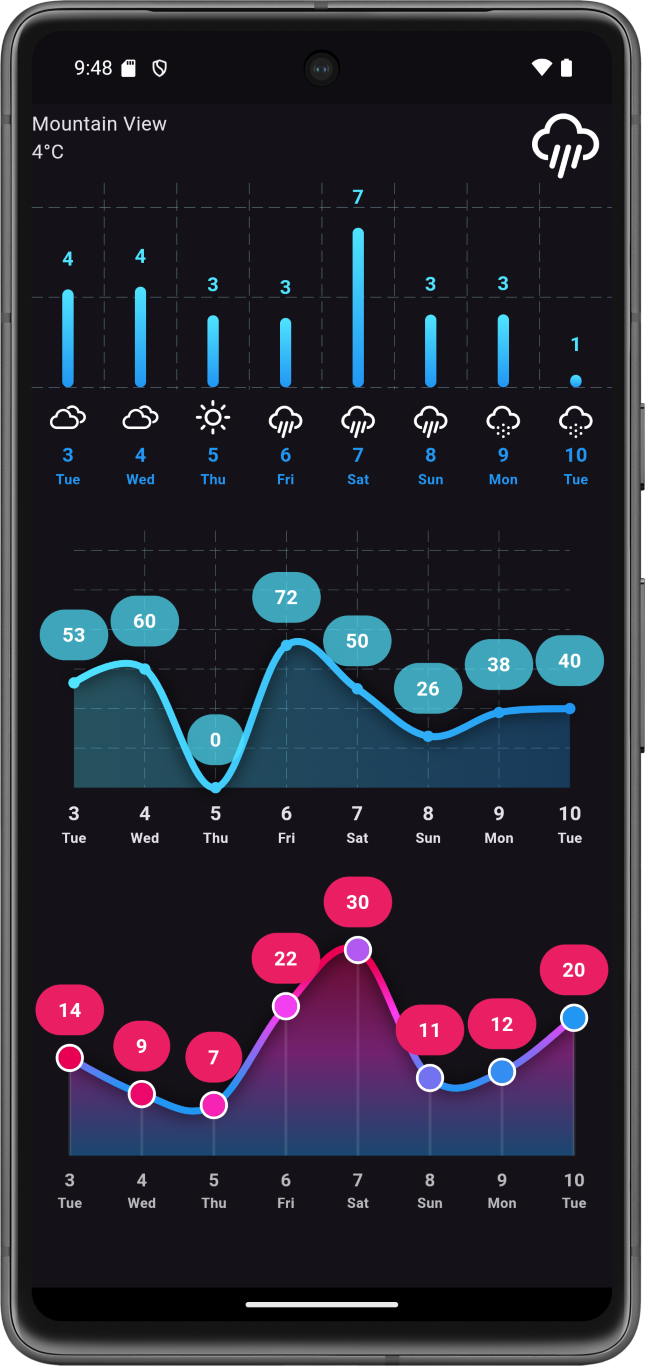
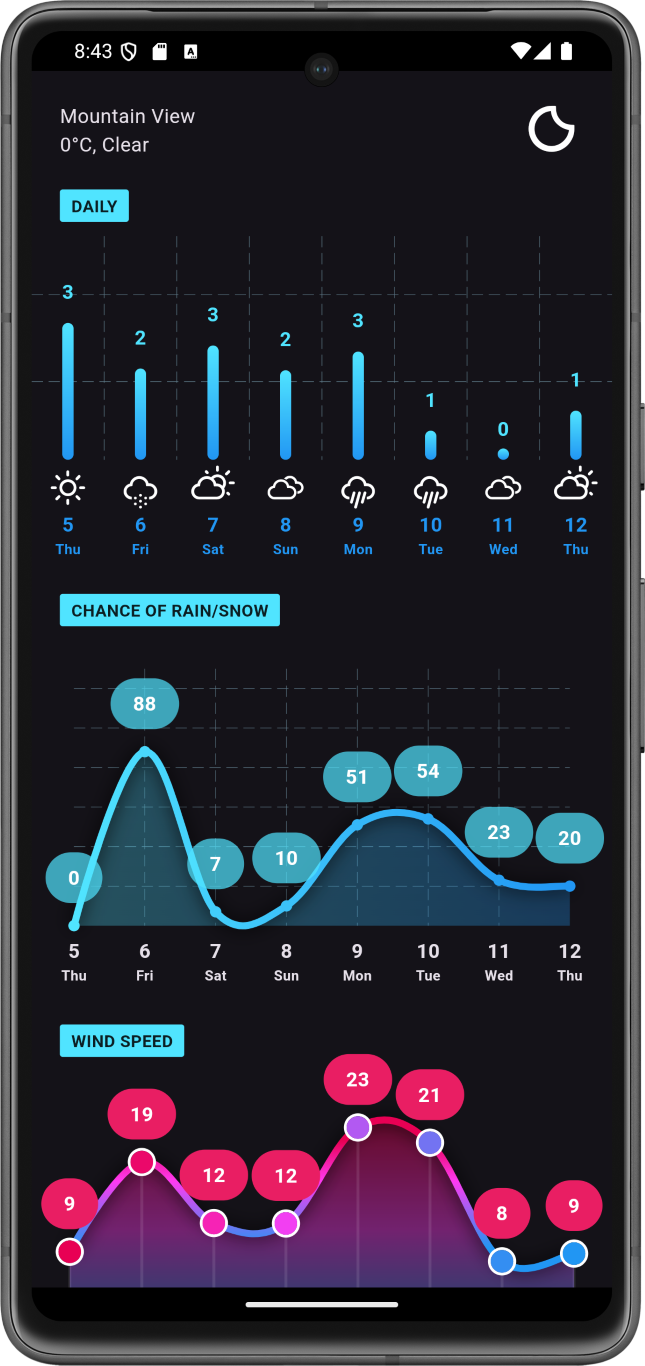
labels of charts!

diff --git a/lib/pages/weather_page.dart b/lib/pages/weather_page.dart
@@ -3,10 +3,11 @@ import 'package:flutter_animate/flutter_animate.dart';
 import 'package:flutter_dotenv/flutter_dotenv.dart';
 import 'package:weather_icons/weather_icons.dart';
 import 'package:weatherapp/model/weather.dart';
-import 'package:weatherapp/pages/chart_hourly.dart';
+import 'package:weatherapp/pages/hourly.dart';
 
 import '../services/weather_service.dart';
-import 'chart.dart';
+import 'app_resources.dart';
+import 'daily.dart';
 import 'chart2.dart';
 import 'chart3.dart';
 
@@ -84,14 +85,129 @@ class _WeatherPageState extends State<WeatherPage> {
                           ),
                         ],
                       ),
-                      BarChartSample3(weather: _weather),
-                      Text("\n"),
-                      HourlyChart(weather: _weather),
-                      // Text("\n\nWind speed"),
-                      Text("\n"),
-                      LineChartSample5(weather: _weather),
+                      Align(
+                        alignment: Alignment
+                            .centerLeft, // Align the container to the left
+                        child: Padding(
+                          padding: EdgeInsets.only(
+                            left: 20.0,
+                            bottom: 10,
+                          ), // Add 20 pixels of padding from the left
+                          child: Container(
+                            decoration: BoxDecoration(
+                              color: AppColors
+                                  .contentColorCyan, // Background color
+                              borderRadius:
+                                  BorderRadius.circular(2.0), // Rounded corners
+                            ),
+                            padding: EdgeInsets.symmetric(
+                                horizontal: 8.0,
+                                vertical: 3.0), // Padding inside the container
+                            child: Text(
+                              "DAILY",
+                              style: TextStyle(
+                                color: Colors.black87, // Text color
+                                fontWeight: FontWeight.bold, // Bold text
+                                fontSize: 12.0, // Adjust font size
+                              ),
+                            ),
+                          ),
+                        ),
+                      ),
+                      DailyChart(weather: _weather),
+                      Align(
+                        alignment: Alignment
+                            .centerLeft, // Align the container to the left
+                        child: Padding(
+                          padding: EdgeInsets.only(
+                            top: 25.0,
+                            left: 20.0,
+                            bottom: 0,
+                          ), // Add 20 pixels of padding from the left
+                          child: Container(
+                            decoration: BoxDecoration(
+                              color: AppColors
+                                  .contentColorCyan, // Background color
+                              borderRadius:
+                                  BorderRadius.circular(2.0), // Rounded corners
+                            ),
+                            padding: EdgeInsets.symmetric(
+                                horizontal: 8.0,
+                                vertical: 3.0), // Padding inside the container
+                            child: Text(
+                              "CHANCE OF RAIN/SNOW",
+                              style: TextStyle(
+                                color: Colors.black87, // Text color
+                                fontWeight: FontWeight.bold, // Bold text
+                                fontSize: 12.0, // Adjust font size
+                              ),
+                            ),
+                          ),
+                        ),
+                      ),
                       LineChartSample2(weather: _weather),
-                      // Text("\n\nProbability of precipitation"),
+                      Align(
+                        alignment: Alignment
+                            .centerLeft, // Align the container to the left
+                        child: Padding(
+                          padding: EdgeInsets.only(
+                            top: 25.0,
+                            left: 20.0,
+                            bottom: 40,
+                          ), // Add 20 pixels of padding from the left
+                          child: Container(
+                            decoration: BoxDecoration(
+                              color: AppColors
+                                  .contentColorCyan, // Background color
+                              borderRadius:
+                                  BorderRadius.circular(2.0), // Rounded corners
+                            ),
+                            padding: EdgeInsets.symmetric(
+                                horizontal: 8.0,
+                                vertical: 3.0), // Padding inside the container
+                            child: Text(
+                              "WIND SPEED",
+                              style: TextStyle(
+                                color: Colors.black87, // Text color
+                                fontWeight: FontWeight.bold, // Bold text
+                                fontSize: 12.0, // Adjust font size
+                              ),
+                            ),
+                          ),
+                        ),
+                      ),
+                      LineChartSample5(weather: _weather),
+                      Align(
+                        alignment: Alignment
+                            .centerLeft, // Align the container to the left
+                        child: Padding(
+                          padding: EdgeInsets.only(
+                            top: 28.0,
+                            left: 20.0,
+                            bottom: 10,
+                          ), // Add 20 pixels of padding from the left
+                          child: Container(
+                            decoration: BoxDecoration(
+                              color: AppColors
+                                  .contentColorCyan, // Background color
+                              borderRadius:
+                                  BorderRadius.circular(2.0), // Rounded corners
+                            ),
+                            padding: EdgeInsets.symmetric(
+                                horizontal: 8.0,
+                                vertical: 3.0), // Padding inside the container
+                            child: Text(
+                              "HOURLY",
+                              style: TextStyle(
+                                color: Colors.black87, // Text color
+                                fontWeight: FontWeight.bold, // Bold text
+                                fontSize: 12.0, // Adjust font size
+                              ),
+                            ),
+                          ),
+                        ),
+                      ),
+                      HourlyChart(weather: _weather),
                     ],
                   ).animate(effects: [FadeEffect()]),
                 ),

diff --git a/lib/pages/daily.dart b/lib/pages/daily.dart
@@ -19,7 +19,7 @@ class _BarChart extends StatelessWidget {
         borderData: borderData,
         barGroups: barGroups, // Access weather here
         gridData: FlGridData(
-            show: true, verticalInterval: 0.125, horizontalInterval: 4),
+            show: true, verticalInterval: 0.125, horizontalInterval: 2),
         alignment: BarChartAlignment.spaceAround,
         maxY: getHighest(),
         minY: getLowest(),
@@ -36,7 +36,7 @@ class _BarChart extends StatelessWidget {
 
   double getLowest() {
     return weather?.dailyWeather
-            .map((e) => e.temperatureLow)
+            .map((e) => e.temperatureHigh)
             .reduce((a, b) => a < b ? a : b) ??
         -10;
   }
@@ -305,16 +305,16 @@ class _BarChart extends StatelessWidget {
       ];
 }
 
-class BarChartSample3 extends StatefulWidget {
+class DailyChart extends StatefulWidget {
   final Weather? weather;
 
-  const BarChartSample3({super.key, required this.weather});
+  const DailyChart({super.key, required this.weather});
 
   @override
-  State<StatefulWidget> createState() => BarChartSample3State();
+  State<StatefulWidget> createState() => DailyChartState();
 }
 
-class BarChartSample3State extends State<BarChartSample3> {
+class DailyChartState extends State<DailyChart> {
   @override
   Widget build(BuildContext context) {
     return AspectRatio(

diff --git a/lib/pages/app_resources.dart b/lib/pages/app_resources.dart
@@ -22,4 +22,5 @@ class AppColors {
   static const Color contentColorPink = Color(0xFFFF3AF2);
   static const Color contentColorRed = Color(0xFFE80054);
   static const Color contentColorCyan = Color(0xFF50E4FF);
+  static const Color contentColorCyanBorder = Color(0xFF9FEEFF);
 }
